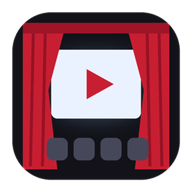
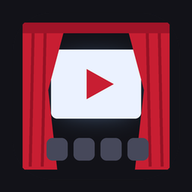
Filme-Seite: App-Symbol vollflächig und undurchsichtig (iPhone-Home-Bildschirm)
Claude-Session: https://claude.ai/code/session_014Fj7nw6AN9jTbe1QtaPCfN

diff --git a/filme/index.html b/filme/index.html
@@ -7,7 +7,7 @@
 <meta name="theme-color" content="#08080a">
 <title>Filme auf der Platte</title>
 <link rel="icon" type="image/png" href="symbole/icon-64.png">
-<link rel="apple-touch-icon" href="symbole/apple-touch-icon.png">
+<link rel="apple-touch-icon" sizes="180x180" href="symbole/apple-touch-icon-v2.png">
 <link rel="manifest" href="manifest.webmanifest">
 <meta name="apple-mobile-web-app-capable" content="yes">
 <meta name="mobile-web-app-capable" content="yes">
@@ -127,7 +127,7 @@ footer button{pointer-events:auto;border:0;background:none;color:var(--dim);font
 <div id="decke"></div>
 <div class="blatt glas" id="blatt" role="dialog" aria-modal="true" aria-hidden="true"></div>
 <div id="tipp" class="glas" role="dialog" aria-label="Zum Home-Bildschirm hinzufügen" aria-hidden="true">
-  <div class="kopf"><img src="symbole/apple-touch-icon.png" alt=""><h3>Als App auf den Home-Bildschirm?</h3></div>
+  <div class="kopf"><img src="symbole/apple-touch-icon-v2.png" alt=""><h3>Als App auf den Home-Bildschirm?</h3></div>
   <ol id="tippschritte"></ol>
   <div class="knoepfe"><button id="tipp-spaeter" type="button">Später</button><button id="tipp-ok" class="haupt" type="button">Verstanden</button></div>
 </div>
